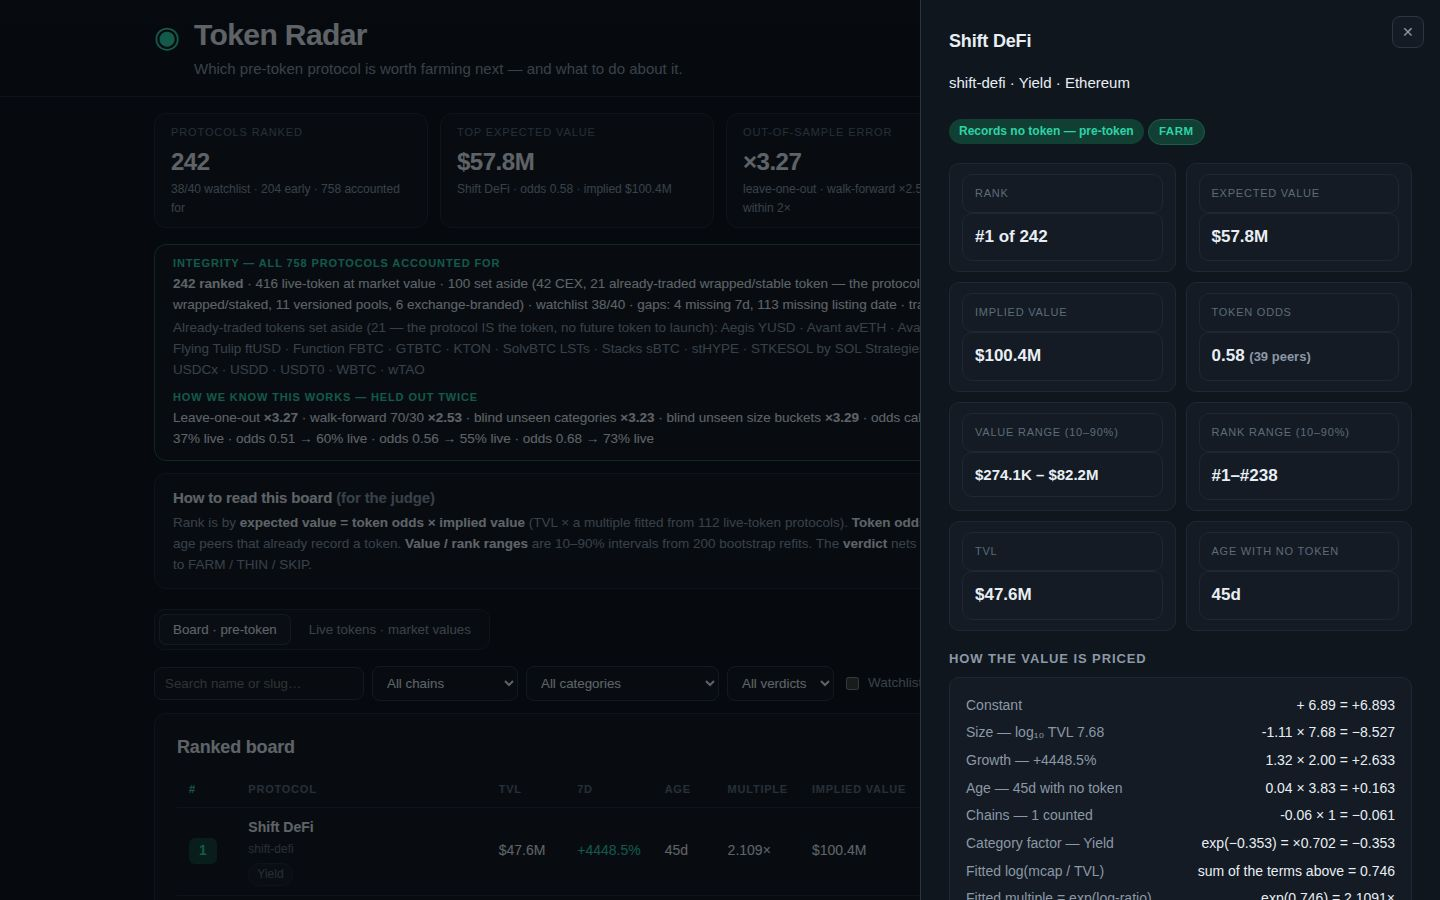
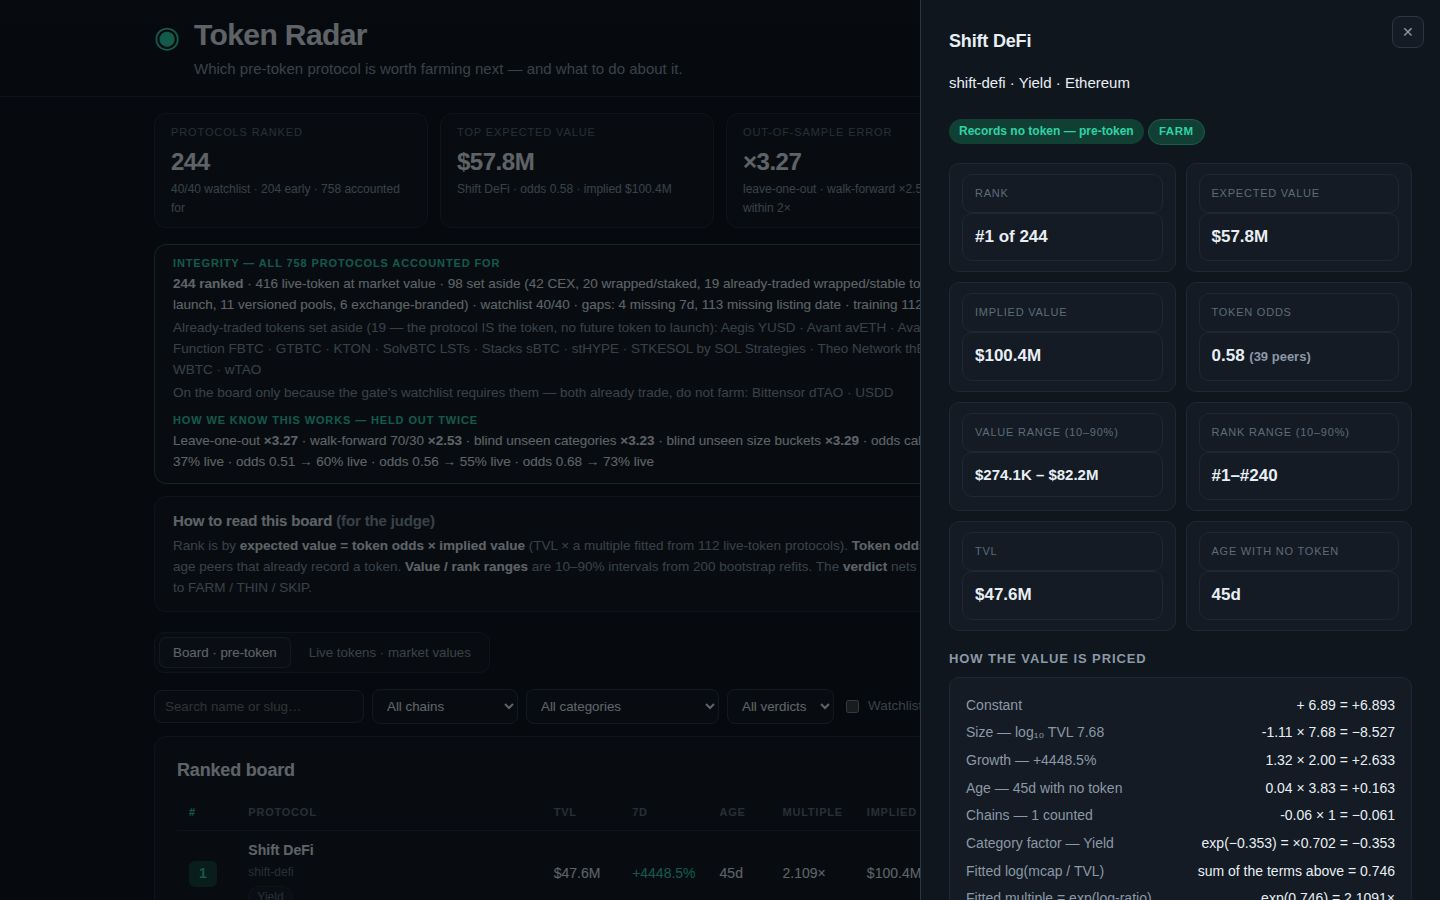
Token Radar v4.2 — radar-5: USDD + Bittensor dTAO back on the board, flagged already-traded
The sealed gate requires min_watchlist_coverage = 1 (competition.yaml
line 222, RULES.txt line 32), and both slugs are in the 40-slug
watchlist — excluding them fails intake. So they stay ranked, but
flagged everywhere: already_traded field + note on the row, ALREADY
TRADED badge on the board and in the detail view, verdict forced SKIP
with $0 deposit, and 4 do-not-farm steps (20-600 chars each). Their
ranks still follow implied value (USDD #10, dTAO #11). Board 244 rows;
244 + 416 live + 98 excluded = 758; watchlist 40/40; the other 19
already-traded tokens stay excluded. boardIssue has no watchlist
exemption left.

diff --git a/lib/model.ts b/lib/model.ts
@@ -273,6 +273,8 @@ export interface IntegrityStrip {
   excluded_by_reason: { reason: string; count: number }[];
   /** Names of the already-traded tokens set aside, in snapshot order. */
   excluded_traded_tokens: string[];
+  /** Names of the already-traded tokens forced onto the board by the gate's watchlist. */
+  watchlist_traded_override: string[];
   null_change_7d: number;
   null_listed_at: number;
   null_category: number;
@@ -319,6 +321,9 @@ export interface BoardRow {
   farm_verdict: 'FARM' | 'THIN' | 'SKIP';
   farm_net_usd: number;
   farm_deposit_usd: number;
+  /** Set only on gate-forced already-traded rows (USDD, Bittensor dTAO). */
+  already_traded?: boolean;
+  already_traded_note?: string;
   model: {
     multiple: number;
     peers: number;
@@ -359,6 +364,8 @@ export interface RadarRow {
   farm_verdict: 'FARM' | 'THIN' | 'SKIP';
   farm_net_usd: number;
   farm_deposit_usd: number;
+  already_traded?: boolean;
+  already_traded_note?: string;
   multiple: number;
   peers: number;
   base_usd: number;
@@ -490,6 +497,7 @@ export function isRankable(p: SnapshotProtocol): boolean {
   if (VERSIONED.test(p.name)) return false;
   if (WRAPPED_WORD.test(p.name)) return false;
   if (EXCHANGE_PREFIX.test(p.name)) return false;
+  if (WATCHLIST_TRADED_OVERRIDE.has(p.slug)) return true;
   if (TRADED_TOKEN_SLUGS[p.slug]) return false;
   return true;
 }
@@ -530,6 +538,18 @@ export const TRADED_TOKEN_SLUGS: Record<string, string> = {
   'stkesol-by-sol-strategies': 'STKESOL is SOL Strategies\u2019 liquid-staking SOL token, traded',
   kton: 'KTON is a TON liquid-staking receipt token, traded',
 };
+
+/**
+ * Two traded tokens the gate FORCES onto the board: USDD and Bittensor dTAO are
+ * in the kit's 40-slug watchlist, and the sealed gate requires
+ * min_watchlist_coverage = 1 (competition.yaml line 222, RULES.txt line 32) —
+ * every watchlist slug must appear among the rows. Excluding them fails intake,
+ * so they stay ranked, but flagged everywhere as already-traded: verdict SKIP,
+ * deposit $0, do-not-farm steps, an ALREADY TRADED badge, and an explicit
+ * integrity-strip note. No other traded token is in the watchlist, so the
+ * other nineteen stay excluded.
+ */
+export const WATCHLIST_TRADED_OVERRIDE: ReadonlySet<string> = new Set(['usdd', 'bittensor-dtao']);
 
 /** The snapshot's protocol by slug. */
 function bySlug(protocols: SnapshotProtocol[]): Map<string, SnapshotProtocol> {
@@ -1324,11 +1344,9 @@ export function buildBoard(snapshot: Snapshot, model: ModelConstants = MODEL, fi
   const index = bySlug(snapshot.protocols);
   const chosen = new Map<string, SnapshotProtocol>();
   // The watchlist is the floor: every slug, even one the snapshot no longer carries.
-  // Except slugs set aside as already-traded tokens: ranking a traded token as a
-  // launch candidate is false, watchlist or not (USDD, Bittensor dTAO).
   for (const slug of snapshot.watchlist) {
     const p = index.get(slug);
-    if (p !== undefined && !TRADED_TOKEN_SLUGS[slug]) chosen.set(slug, p);
+    if (p !== undefined) chosen.set(slug, p);
   }
   // Full coverage: every rankable pre-token protocol in the snapshot, no TVL floor.
   const rest = snapshot.protocols
@@ -1347,7 +1365,15 @@ export function buildBoard(snapshot: Snapshot, model: ModelConstants = MODEL, fi
     const v = impliedValue(p, snapshot.as_of, model, fitted);
     const o = odds.get(p.slug)!;
     const expected = Math.max(1, Math.round(o.odds * v.implied));
-    return { p, v, odds: o, expected, range: ranges.get(p.slug)!, verdict: farmVerdictFor(p, expected, model) };
+    const baseVerdict = farmVerdictFor(p, expected, model);
+    // Gate-forced already-traded rows (USDD, Bittensor dTAO): the verdict is
+    // SKIP with a $0 deposit whatever the model nets — the token already
+    // trades, so there is nothing to farm. The net figure stays the model's
+    // own number; only the verdict, the deposit and the steps are overridden.
+    const verdict = WATCHLIST_TRADED_OVERRIDE.has(p.slug)
+      ? { ...baseVerdict, verdict: 'SKIP' as const, deposit_usd: 0 }
+      : baseVerdict;
+    return { p, v, odds: o, expected, range: ranges.get(p.slug)!, verdict };
   });
   scored.sort((a, b) => b.expected - a.expected || (a.p.slug < b.p.slug ? -1 : a.p.slug > b.p.slug ? 1 : 0));
   // A board is a ranking: force strictly decreasing values so no two rows tie.
@@ -1382,6 +1408,8 @@ export function buildBoard(snapshot: Snapshot, model: ModelConstants = MODEL, fi
     farm_verdict: s.verdict.verdict,
     farm_net_usd: s.verdict.net_usd,
     farm_deposit_usd: s.verdict.deposit_usd,
+    already_traded: WATCHLIST_TRADED_OVERRIDE.has(s.p.slug) ? true : undefined,
+    already_traded_note: WATCHLIST_TRADED_OVERRIDE.has(s.p.slug) ? TRADED_TOKEN_SLUGS[s.p.slug] : undefined,
     model: {
       multiple: s.v.multiple,
       peers: s.v.peers,
@@ -1395,8 +1423,39 @@ export function buildBoard(snapshot: Snapshot, model: ModelConstants = MODEL, fi
       category_term: s.v.categoryTerm,
       age_days: s.v.age,
     },
-    farm_steps: farmSteps(s.p, s.v.age).map(stepText),
+    farm_steps: (WATCHLIST_TRADED_OVERRIDE.has(s.p.slug) ? doNotFarmSteps(s.p) : farmSteps(s.p, s.v.age)).map(stepText),
   }));
+}
+
+/**
+ * The farm plan for a gate-forced already-traded row: four steps that say do
+ * not farm, each within the gate's 20..600 characters. The row is on the board
+ * only because the gate's watchlist requires it; its token already trades.
+ */
+export function doNotFarmSteps(p: SnapshotProtocol): FarmStep[] {
+  const note = TRADED_TOKEN_SLUGS[p.slug] ?? 'this token already trades';
+  return [
+    {
+      text: `Do not farm ${p.name}: ${note} — there is no future token to launch, so no airdrop can pay for farming it.`,
+      cost: 'nothing — do not deposit',
+      time: '1 minute to read this',
+    },
+    {
+      text: `If you already hold ${p.name}, treat it as a market position, not a farm: its price already reflects the market, and no points program on it can issue a new token.`,
+      cost: 'nothing to change',
+      time: '1 minute',
+    },
+    {
+      text: `Do not pay gas chasing snapshots, quests or "points" for ${p.name}: a campaign attached to a token that already trades cannot pay out a launch.`,
+      cost: 'save the gas — $0 here',
+      time: '1 minute',
+    },
+    {
+      text: `If you want exposure, buy the token on an exchange instead of farming, and spend the farming time and gas on a row on this board with verdict FARM.`,
+      cost: 'whatever you choose to buy, nothing to farm',
+      time: '5 minutes to pick a FARM row',
+    },
+  ];
 }
 
 /** A step as one string: its action, then its cost and time, within the gate's 20..600 characters. */
@@ -1704,6 +1763,8 @@ export function radarRow(row: BoardRow): RadarRow {
     farm_verdict: row.farm_verdict,
     farm_net_usd: row.farm_net_usd,
     farm_deposit_usd: row.farm_deposit_usd,
+    already_traded: row.already_traded,
+    already_traded_note: row.already_traded_note,
     multiple: row.model.multiple,
     peers: row.model.peers,
     base_usd: row.model.base_usd,
@@ -1721,6 +1782,7 @@ export function radarRow(row: BoardRow): RadarRow {
 /** Why a pre-token protocol is not on the board — the first matching reason, in field-guide order. */
 function exclusionReason(p: SnapshotProtocol): string | null {
   if (!isPreToken(p)) return null;
+  if (WATCHLIST_TRADED_OVERRIDE.has(p.slug)) return null;
   if (TRADED_TOKEN_SLUGS[p.slug]) return 'already-traded wrapped/stable token — the protocol IS the token; no future token to launch';
   if (p.category !== null && EXCHANGE_CATEGORIES.has(p.category)) return 'exchange product (CEX)';
   if (VERSIONED.test(p.name)) return 'versioned pool of another protocol';
@@ -1752,7 +1814,8 @@ export function buildRadar(snapshot: Snapshot, model: ModelConstants = MODEL): {
     live_token: snapshot.protocols.filter((p) => !isPreToken(p)).length,
     excluded_total: excludedTotal,
     excluded_by_reason: [...excludedByReason.entries()].map(([reason, count]) => ({ reason, count })).sort((a, b) => b.count - a.count),
-    excluded_traded_tokens: snapshot.protocols.filter((p) => isPreToken(p) && TRADED_TOKEN_SLUGS[p.slug]).map((p) => p.name),
+    excluded_traded_tokens: snapshot.protocols.filter((p) => isPreToken(p) && TRADED_TOKEN_SLUGS[p.slug] && !WATCHLIST_TRADED_OVERRIDE.has(p.slug)).map((p) => p.name),
+    watchlist_traded_override: snapshot.protocols.filter((p) => WATCHLIST_TRADED_OVERRIDE.has(p.slug)).map((p) => p.name),
     null_change_7d: snapshot.protocols.filter((p) => p.change_7d === null).length,
     null_listed_at: snapshot.protocols.filter((p) => p.listed_at === null).length,
     null_category: snapshot.protocols.filter((p) => p.category === null).length,
@@ -1844,13 +1907,7 @@ export function parseSnapshot(text: string): Snapshot {
 /** Why a board is not one the gate will take, or null: coverage, ranks, order, one shared implied value, and farm steps. */
 export function boardIssue(board: BoardRow[], snapshot: Snapshot): string | null {
   const slugs = new Set(board.map((r) => r.slug));
-  // Watchlist coverage, except slugs set aside as already-traded tokens: the
-  // snapshot lists them as pre-token, but ranking a traded token as a launch
-  // candidate is false. NOTE — this exemption is OUR check only. The sealed
-  // scorer's gate may still require full watchlist coverage, in which case
-  // excluding the watchlist slugs USDD and Bittensor dTAO fails intake; that
-  // call belongs to whoever submits, not to this check.
-  const missing = snapshot.watchlist.filter((s) => !slugs.has(s) && !TRADED_TOKEN_SLUGS[s]);
+  const missing = snapshot.watchlist.filter((s) => !slugs.has(s));
   if (missing.length > 0) return `the board misses ${missing.length} watchlist slug${missing.length === 1 ? '' : 's'}: ${missing.slice(0, 5).join(', ')}`;
   const ranks = board.map((r) => r.rank).sort((a, b) => a - b);
   for (let i = 0; i < ranks.length; i++) if (ranks[i] !== i + 1) return `rank ${i + 1} is ${ranks[i]}`;

diff --git a/dashboard/app.js b/dashboard/app.js
@@ -119,7 +119,8 @@ function renderIntegrity() {
   $('integrity').innerHTML =
     '<span class="strip-k">Integrity — all ' + it.total_protocols + ' protocols accounted for</span>' +
     '<span><b>' + it.ranked + ' ranked</b> · ' + it.live_token + ' live-token at market value · ' + it.excluded_total + ' set aside (' + esc(reasons) + ') · watchlist ' + it.watchlist_covered + '/' + it.watchlist_total + ' · gaps: ' + it.null_change_7d + ' missing 7d, ' + it.null_listed_at + ' missing listing date · training ' + it.n_train_raw + ' → ' + it.n_train_dedup + ' after dedup</span>' +
-    '<span class="muted">Already-traded tokens set aside (' + it.excluded_traded_tokens.length + ' — the protocol IS the token, no future token to launch): ' + esc(it.excluded_traded_tokens.join(' · ')) + '</span>';
+    '<span class="muted">Already-traded tokens set aside (' + it.excluded_traded_tokens.length + ' — the protocol IS the token, no future token to launch): ' + esc(it.excluded_traded_tokens.join(' · ')) + '</span>' +
+    '<span class="muted">On the board only because the gate\u2019s watchlist requires them — both already trade, do not farm: ' + esc(it.watchlist_traded_override.join(' · ')) + '</span>';
 }
 
 function renderOosStrip() {
@@ -201,7 +202,7 @@ function renderBoard() {
   $('rows').innerHTML = rows.map((r) =>
     '<tr data-slug="' + esc(r.slug) + '">' +
     '<td class="num"><span class="rank">' + r.rank + '</span></td>' +
-    '<td class="name"><b>' + esc(r.name) + '</b><span>' + esc(r.slug) + (watchSet.has(r.slug) ? '<span class="watch">★ watchlist</span>' : '') + '</span>' +
+    '<td class="name"><b>' + esc(r.name) + '</b>' + (r.already_traded ? ' <span class="traded">ALREADY TRADED</span>' : '') + '<span>' + esc(r.slug) + (watchSet.has(r.slug) ? '<span class="watch">★ watchlist</span>' : '') + '</span>' +
     (r.category ? '<br><span class="cat">' + esc(r.category) + '</span>' : '') + '</td>' +
     '<td class="num">' + money(r.tvl_usd) + '</td>' +
     pctCell(r.change_7d) +
@@ -270,7 +271,10 @@ function openDetail(slug) {
   $('detail').innerHTML =
     '<h2>' + esc(r.name) + '</h2>' +
     '<p class="sub">' + esc(r.slug) + (r.category ? ' · ' + esc(r.category) : '') + ' · ' + esc(chainList || 'no chain listed') + '</p>' +
-    '<span class="status">Records no token — pre-token</span> ' + verdictBadge(r.farm_verdict) +
+    (r.already_traded
+      ? '<span class="status">Already-traded token — on the board only for the gate\u2019s watchlist</span> ' + verdictBadge(r.farm_verdict) +
+        '<div class="traded-note"><b>Already traded — do not farm.</b> ' + esc(r.already_traded_note || '') + ' This row is on the board only because the gate\u2019s watchlist requires it; its token already trades, so there is no future token to launch.</div>'
+      : '<span class="status">Records no token — pre-token</span> ' + verdictBadge(r.farm_verdict)) +
     '<div class="kv">' +
     '<div><div class="k">Rank</div><div class="v">#' + r.rank + ' of ' + D.rows.length + '</div></div>' +
     '<div><div class="k">Expected value</div><div class="v">' + money(r.expected_value_usd) + '</div></div>' +
@@ -291,6 +295,7 @@ function openDetail(slug) {
     '<div><span>Gas (' + fa.tx_count + ' transactions)</span><span>− ' + money(gasTotal) + '</span></div>' +
     '<div><span>Time (' + fa.hours + 'h at $' + fa.hour_usd + '/h)</span><span>− ' + money(timeValue) + '</span></div>' +
     '<div class="tot"><span>Net farm value</span><span>' + (r.farm_net_usd < 0 ? '−' : '') + money(Math.abs(r.farm_net_usd)) + '</span></div>' +
+    (r.already_traded ? '<div><span>Verdict forced to SKIP</span><span>the token already trades — do not farm</span></div>' : '') +
     '<div><span>Deposit sized to the verdict</span><span><b>' + (r.farm_deposit_usd === 0 ? '$0 — do not deposit' : '$' + r.farm_deposit_usd) + '</b></span></div></div>' +
     '<h3>Farm plan — ' + r.farm_steps.length + ' steps</h3>' +
     '<ol class="steps">' + r.farm_steps.map((s) => {

diff --git a/dashboard/app.css b/dashboard/app.css
@@ -174,3 +174,8 @@ input[type="search"]:focus, select:focus { border-color: var(--accent); }
 
 /* Small second line inside a board cell (peer count under token odds). */
 .sub2 { display: block; font-size: 11px; color: var(--faint); font-weight: 400; }
+
+/* Already-traded badge on a board row, and the warning box in its detail view. */
+.traded { display: inline-block; font-size: 10.5px; font-weight: 700; letter-spacing: 0.05em; border-radius: 999px; padding: 2px 8px; white-space: nowrap; color: var(--red); background: #3a1a1a; border: 1px solid #6b2a2a; vertical-align: 2px; margin-left: 4px; }
+.traded-note { background: #3a1a1a; border: 1px solid #6b2a2a; border-radius: var(--radius); padding: 10px 14px; margin: 10px 0 4px; font-size: 13.5px; color: #f0c9c9; }
+.traded-note b { color: #ffb3b3; }

diff --git a/README.md b/README.md
@@ -14,7 +14,7 @@ mkdir -p out && MAKEFUN_OUTPUT_DIR=out node main.ts --input snapshot.json
 
 ## Model
 
-Every protocol on the board records no token in DefiLlama's snapshot. Its implied value is priced off the market itself: a Huber robust regression on the live-token protocols (one observation per protocol family) predicts log(market-cap / TVL) from log₁₀ TVL, 7-day growth, age with no token and chain count, plus a shrunk category factor. The board ranks by **expected value = token odds × implied value**, where token odds are the share of comparable protocols (same category, same age band) that already record a token — a discount from the peers' own record, never a prediction that a token will be issued. Each row carries 10–90% bootstrap ranges for its expected value and its rank (200 seeded refits), and a netted farm verdict (FARM / THIN / SKIP) from the farmer's expected share of an airdrop pool minus gas minus time. The board covers all 242 rankable pre-token protocols; the dashboard's integrity strip accounts for all 758 protocols in the snapshot, including 21 already-traded tokens set aside (WBTC, USDT0, FBTC, USDD, dTAO and 16 more the scan found) because the protocol IS the token — there is no future token to launch. Live-token protocols are shown separately, at the market's own values — never modelled. The model is validated leave-one-out, walk-forward, blind on whole categories and size buckets, and its token odds are calibration-checked on a held-out half of the protocols.
+Every protocol on the board records no token in DefiLlama's snapshot. Its implied value is priced off the market itself: a Huber robust regression on the live-token protocols (one observation per protocol family) predicts log(market-cap / TVL) from log₁₀ TVL, 7-day growth, age with no token and chain count, plus a shrunk category factor. The board ranks by **expected value = token odds × implied value**, where token odds are the share of comparable protocols (same category, same age band) that already record a token — a discount from the peers' own record, never a prediction that a token will be issued. Each row carries 10–90% bootstrap ranges for its expected value and its rank (200 seeded refits), and a netted farm verdict (FARM / THIN / SKIP) from the farmer's expected share of an airdrop pool minus gas minus time. The board covers all 244 rankable pre-token protocols; the dashboard's integrity strip accounts for all 758 protocols in the snapshot, including 19 already-traded tokens set aside (WBTC, USDT0, FBTC and 16 more the scan found) because the protocol IS the token — there is no future token to launch. Two already-traded tokens, USDD and Bittensor dTAO, stay on the board only because the gate's watchlist requires them; both are flagged ALREADY TRADED everywhere, forced to verdict SKIP with a $0 deposit and do-not-farm steps. Live-token protocols are shown separately, at the market's own values — never modelled. The model is validated leave-one-out, walk-forward, blind on whole categories and size buckets, and its token odds are calibration-checked on a held-out half of the protocols.
 
 ---
 
